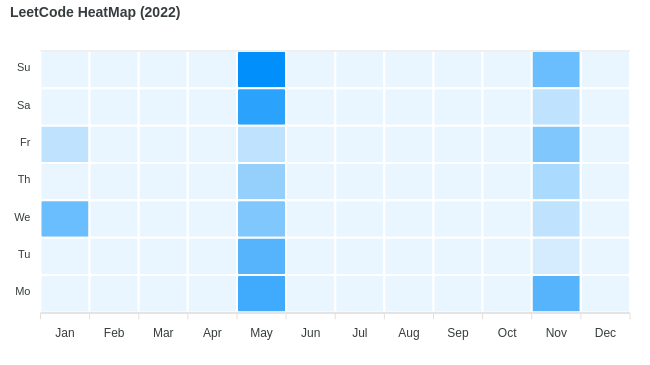
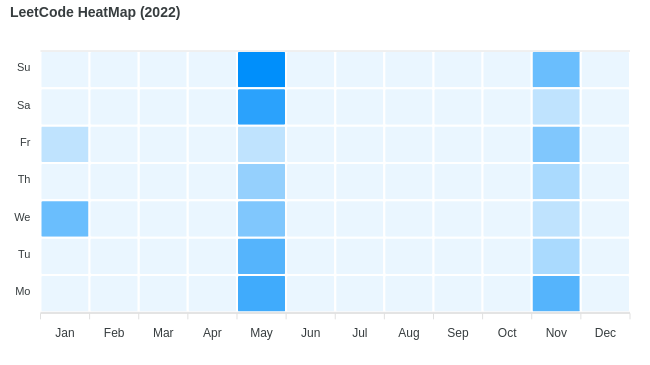
update heatmap.png

Changed region(s): [[0.8, 0.6329, 0.8923, 0.7534]]

diff --git a/README.md b/README.md
@@ -3,7 +3,7 @@
 
 Collection of LeetCode questions to ace the coding interview! - Created using [LeetHub](https://github.com/QasimWani/LeetHub)
 
-> Questions solved 80
+> Questions solved 82
 
 ## Contribution 
 
